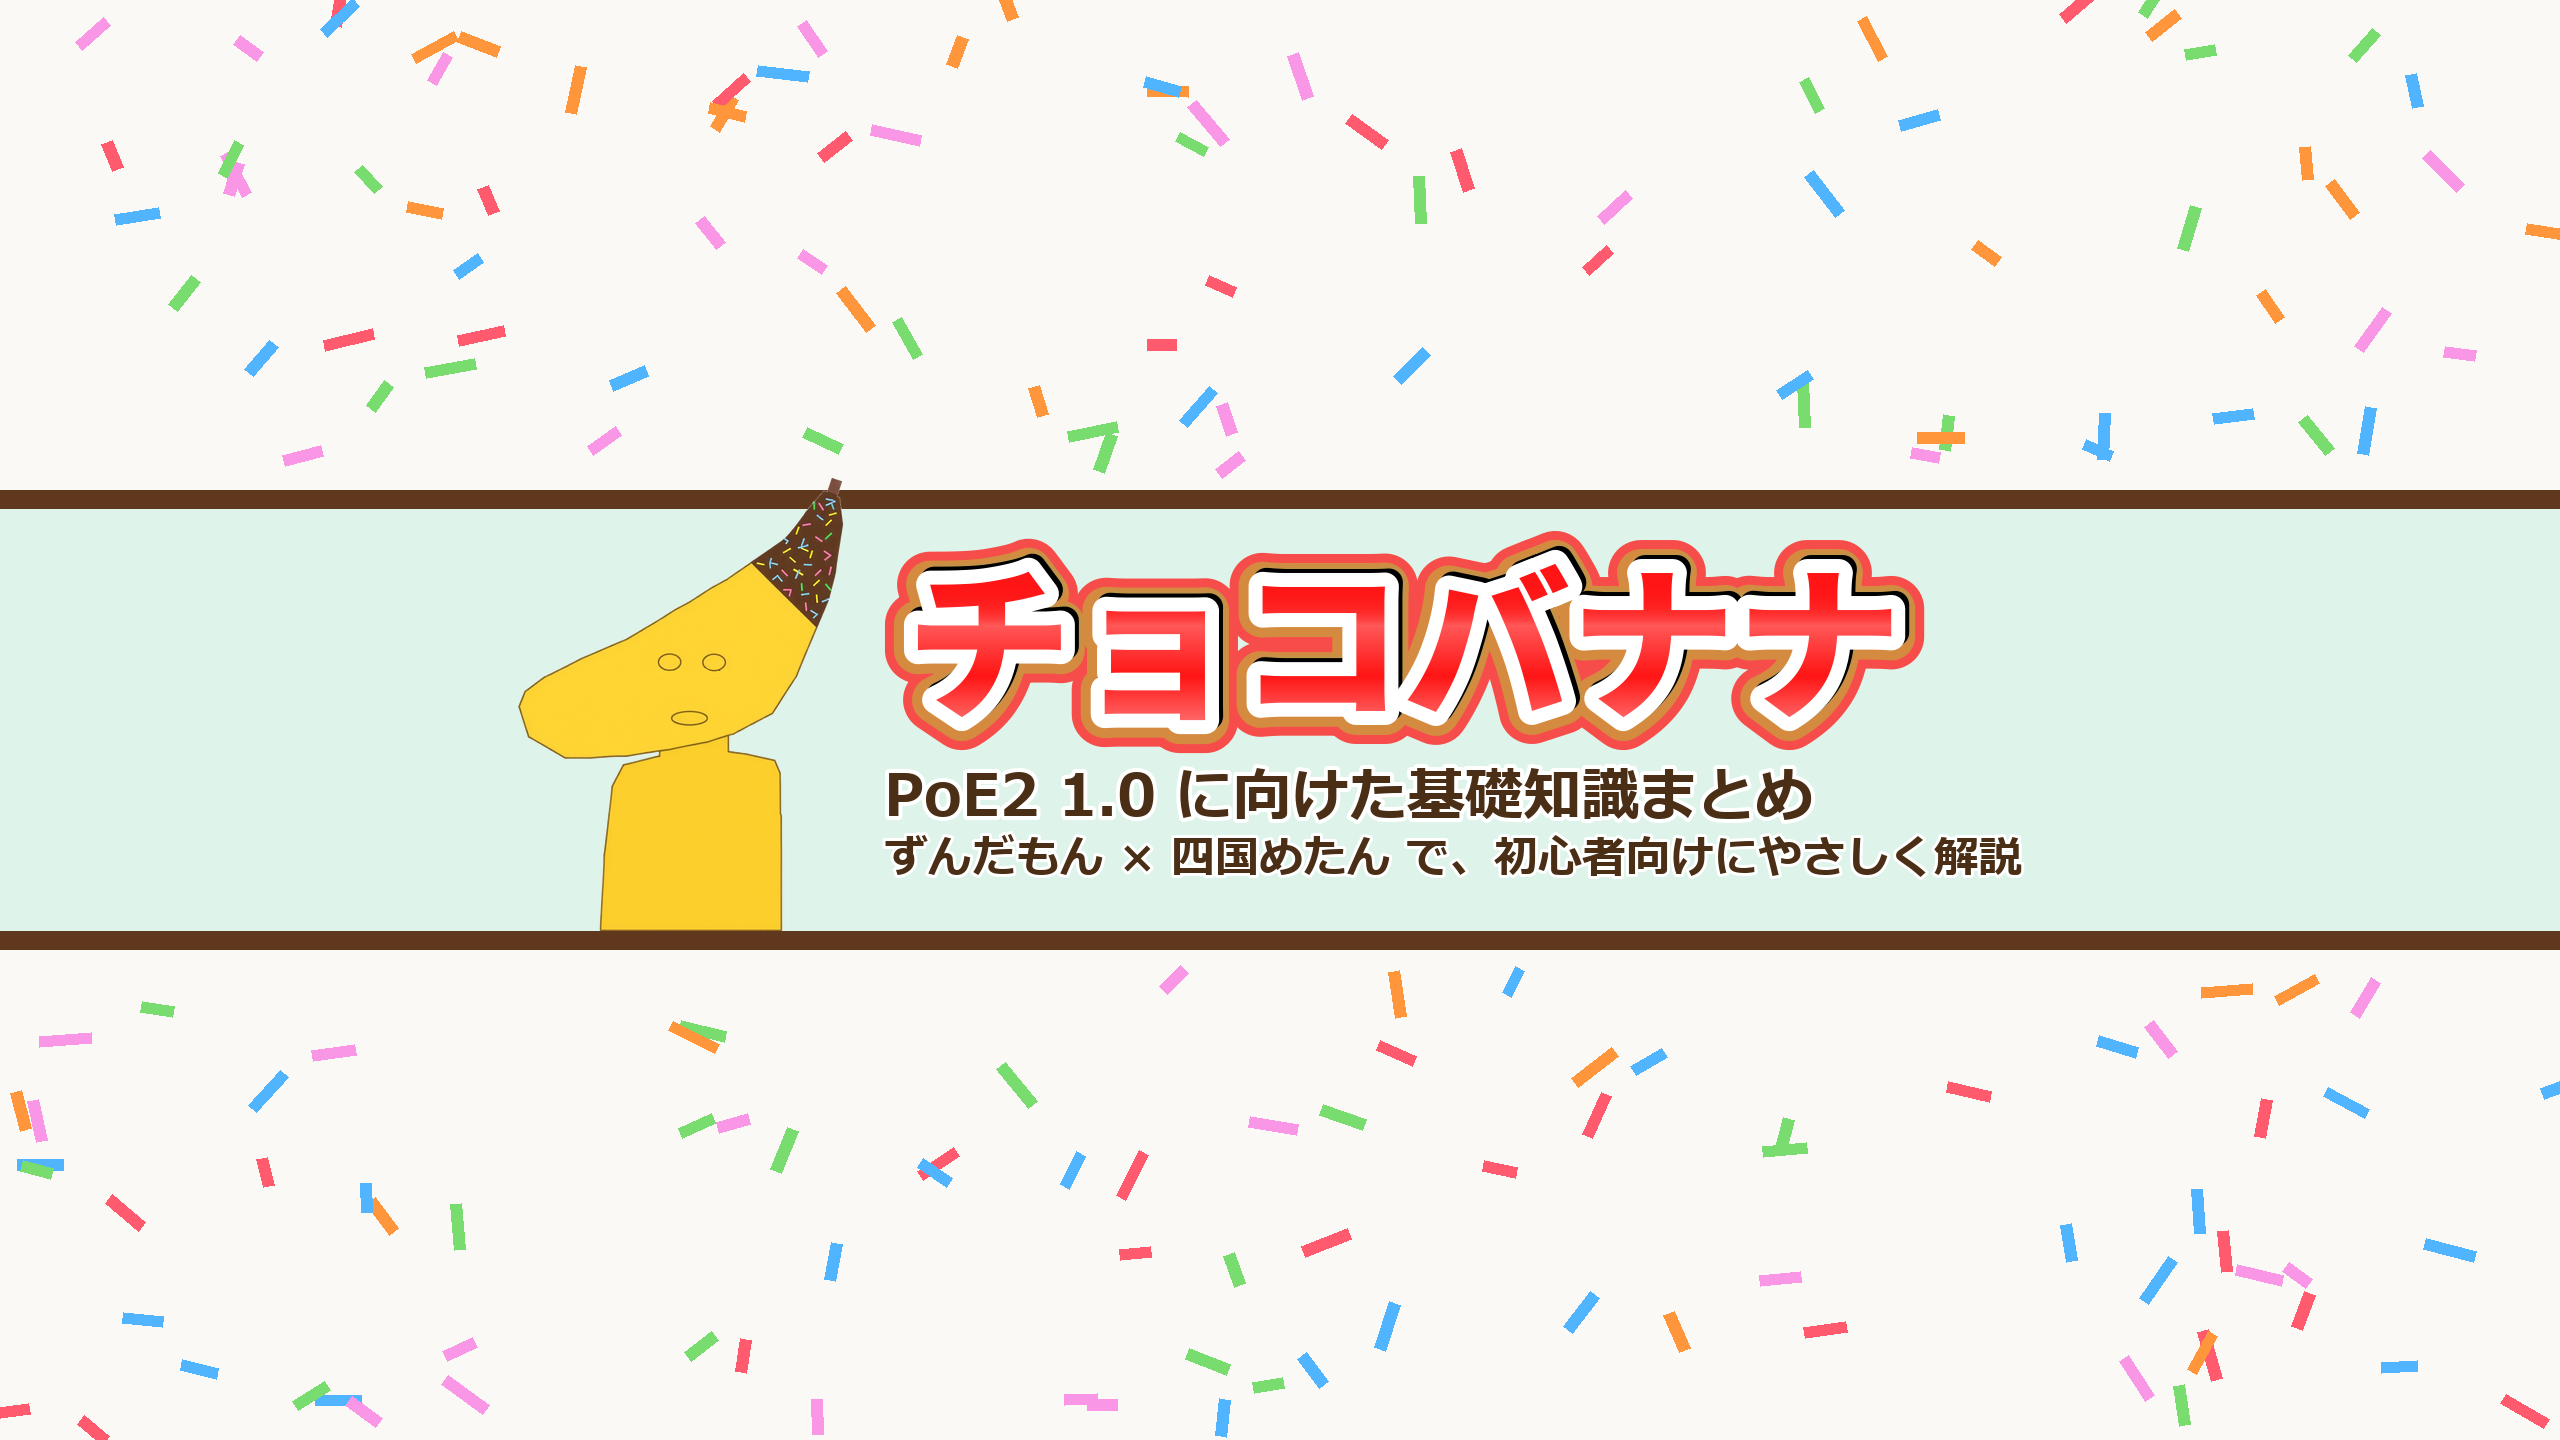
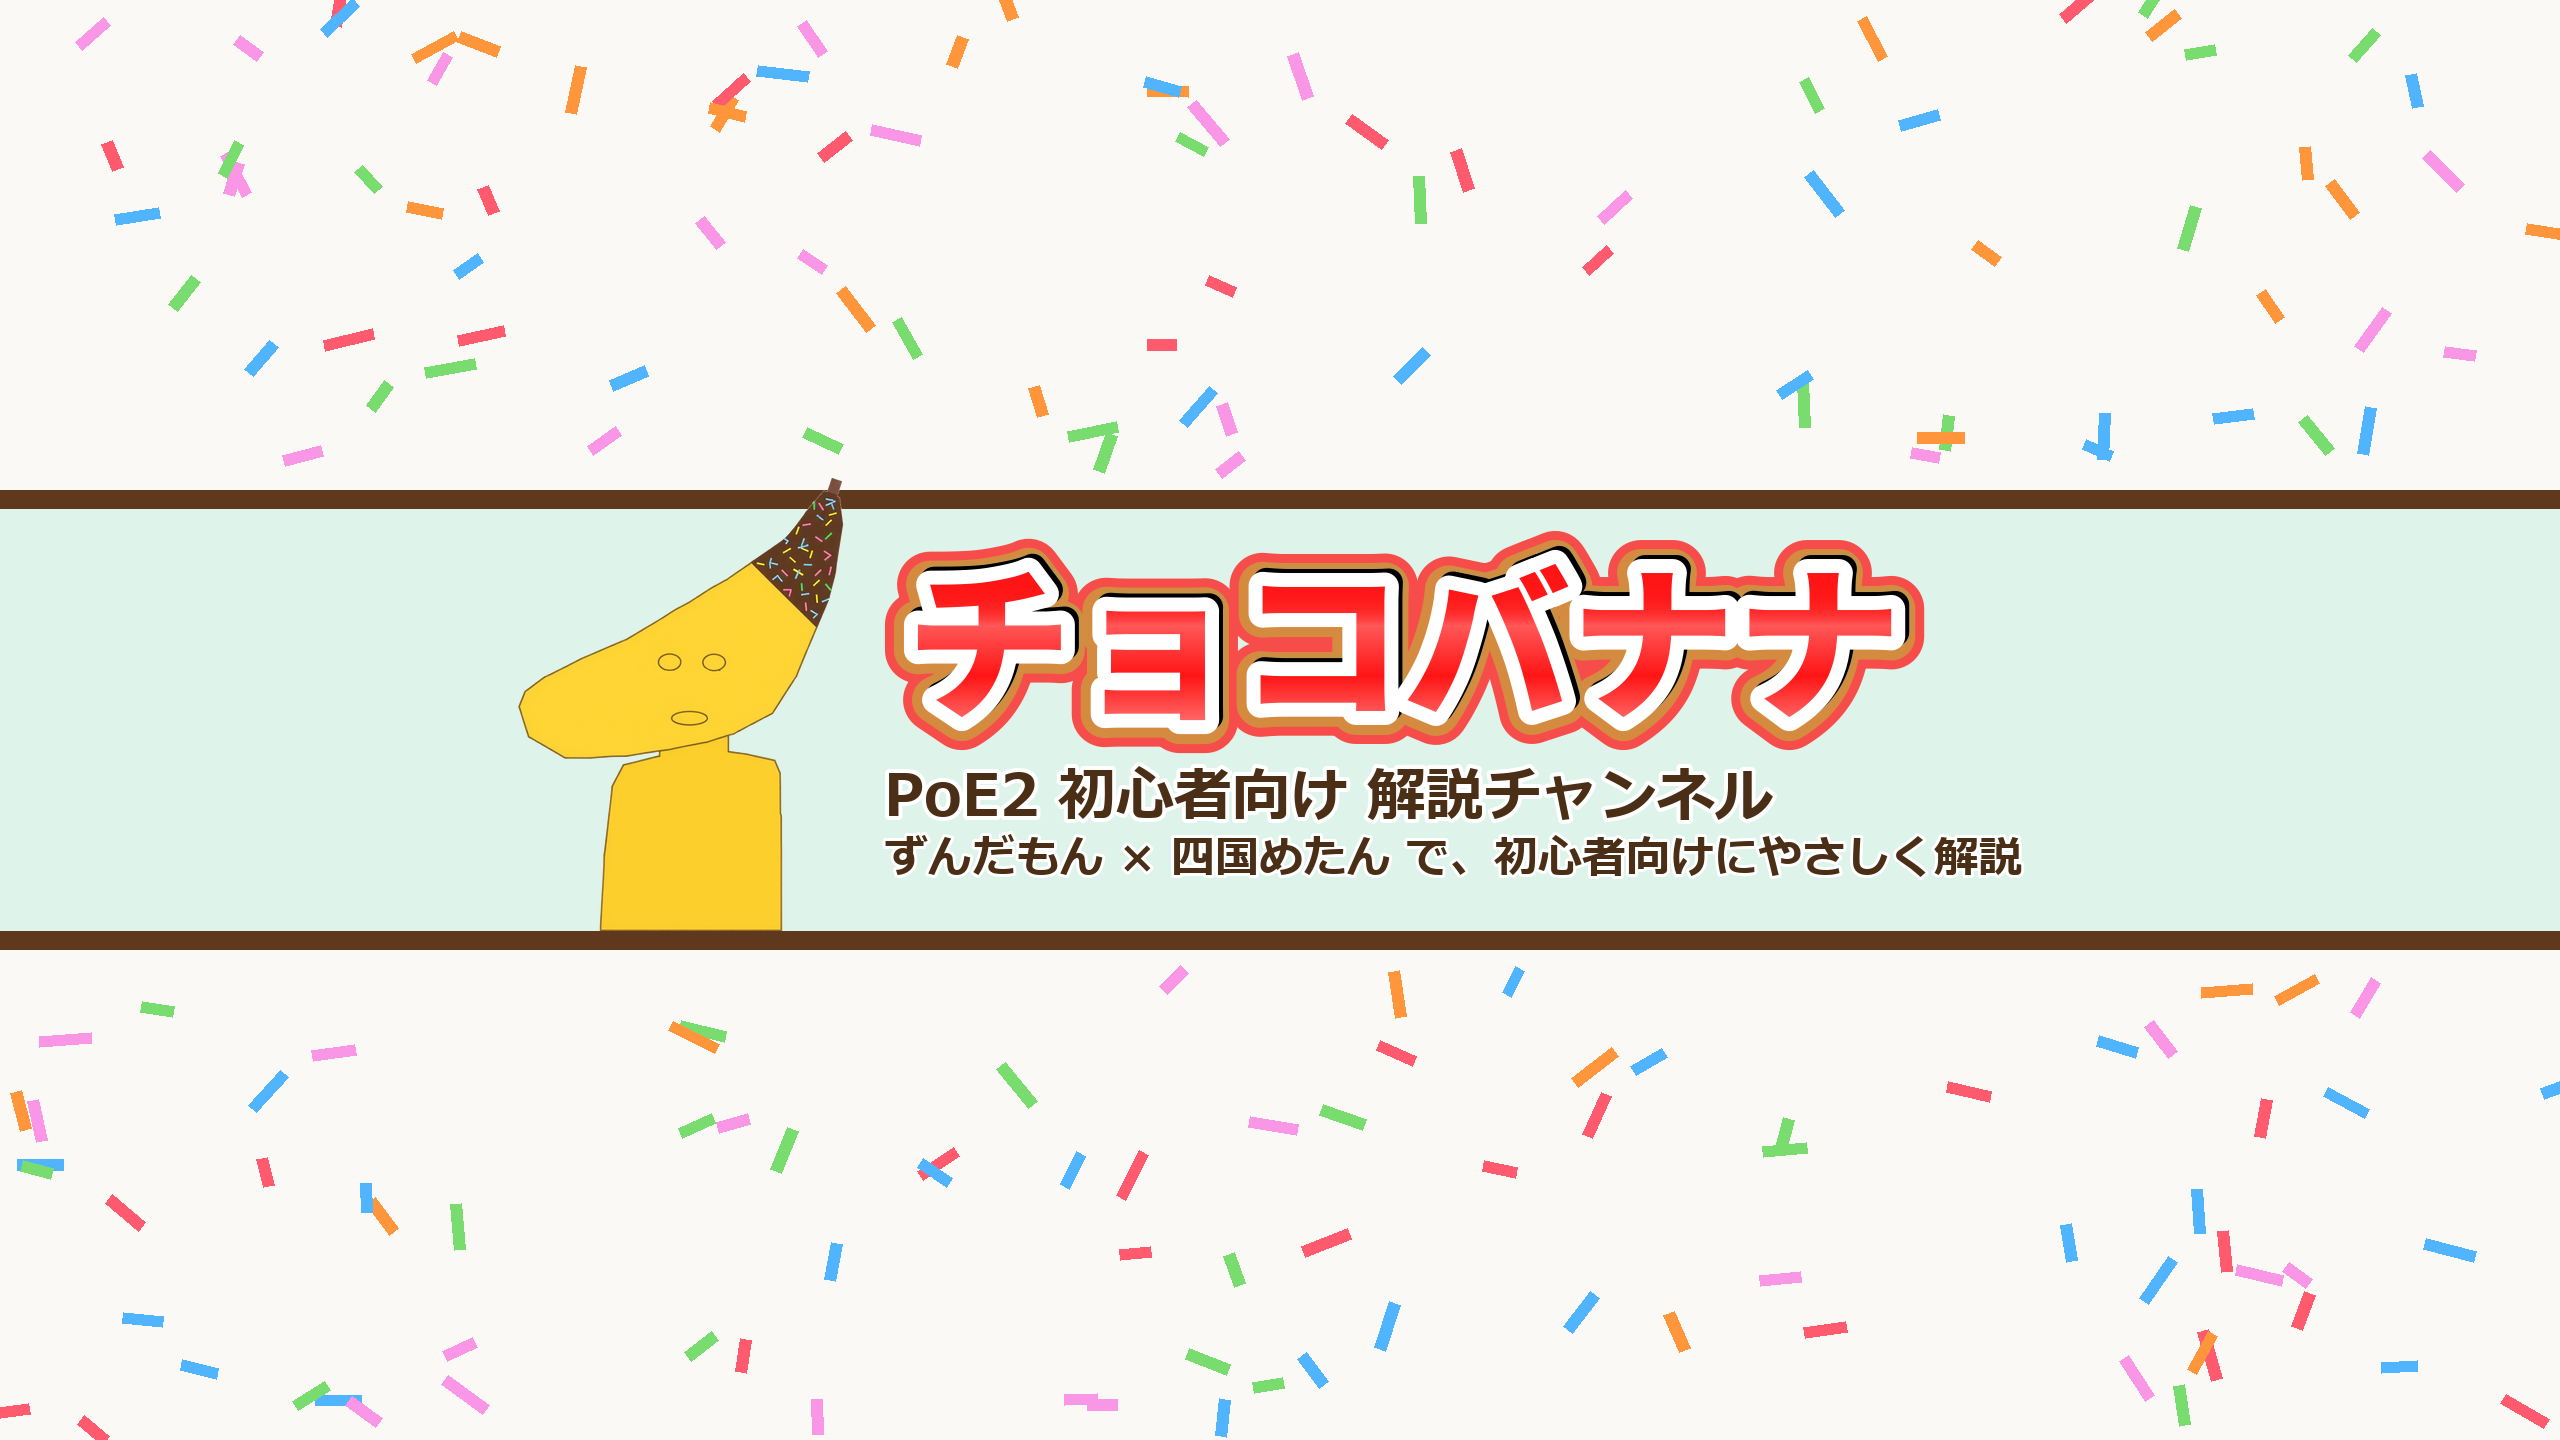
fix(publish): サムネ 403 で止めずに再生リストまで進める・--video-id で続きから・チャンネルから 1.0 の表記を外す

Changed region(s): [[0.4062, 0.5312, 0.7188, 0.5938]]

diff --git a/src/poe2tube/publish/youtube.py b/src/poe2tube/publish/youtube.py
@@ -123,8 +123,12 @@ def upload_video(
     playlist_id: str | None = None,
     execute: bool = False,
     root: Path = REPO_ROOT,
+    video_id: str | None = None,
 ) -> tuple[list[Action], str | None]:
-    """動画 → サムネ → 再生リストの順に上げる。戻り値は (やった/やる事, video_id)."""
+    """動画 → サムネ → 再生リストの順に上げる。戻り値は (やった/やる事, video_id).
+
+    ``video_id`` を渡すと動画は上げ直さず、サムネと再生リストだけ付ける (途中で止まった時の続き)。
+    """
     video = root / meta.video
     if not video.exists():
         raise FileNotFoundError(f"動画が無い: {video}")
@@ -132,7 +136,11 @@ def upload_video(
     if thumb is not None and not thumb.exists():
         raise FileNotFoundError(f"サムネが無い: {thumb}")
     when = f"予約 {meta.publish_at}" if meta.publish_at else meta.privacy
-    actions = [Action("動画を上げる", f"{meta.title} ({video.name}, {when})")]
+    actions = (
+        [Action("動画は上げ済み", video_id)]
+        if video_id
+        else [Action("動画を上げる", f"{meta.title} ({video.name}, {when})")]
+    )
     if thumb is not None:
         actions.append(Action("サムネを付ける", thumb.name))
     if playlist_id:
@@ -142,18 +150,25 @@ def upload_video(
 
     from googleapiclient.http import MediaFileUpload  # type: ignore[import-untyped]
 
-    media = MediaFileUpload(str(video), chunksize=8 * 1024 * 1024, resumable=True)
-    req = service.videos().insert(part="snippet,status", body=video_body(meta), media_body=media)
-    res = None
-    while res is None:
-        status, res = req.next_chunk()
-        if status is not None:
-            log.info("uploading", progress=round(status.progress() * 100))
-    video_id = str(res["id"])
-    log.info("video uploaded", video_id=video_id)
+    if video_id is None:
+        media = MediaFileUpload(str(video), chunksize=8 * 1024 * 1024, resumable=True)
+        req = service.videos().insert(
+            part="snippet,status", body=video_body(meta), media_body=media
+        )
+        res = None
+        while res is None:
+            status, res = req.next_chunk()
+            if status is not None:
+                log.info("uploading", progress=round(status.progress() * 100))
+        video_id = str(res["id"])
+        log.info("video uploaded", video_id=video_id)
     if thumb is not None:
-        service.thumbnails().set(videoId=video_id, media_body=MediaFileUpload(str(thumb))).execute()
-    if playlist_id:
+        failed = set_thumbnail(service, video_id, thumb)
+        if failed:
+            actions = [a for a in actions if a.what != "サムネを付ける"] + failed
+    if playlist_id and in_playlist(service, playlist_id, video_id):
+        actions = [a for a in actions if a.what != "再生リストに入れる"]
+    elif playlist_id:
         service.playlistItems().insert(
             part="snippet",
             body={
@@ -164,3 +179,39 @@ def upload_video(
             },
         ).execute()
     return actions, video_id
+
+
+def set_thumbnail(service: Any, video_id: str, thumb: Path) -> list[Action]:
+    """サムネを付ける。電話番号未確認のチャンネルは 403 → 止めずに「未設定」を返す.
+
+    動画は上がっているので、ここで落とすと再生リストへの追加まで止まる (2026-09-28 実際に起きた)。
+    """
+    from googleapiclient.errors import HttpError  # type: ignore[import-untyped]
+    from googleapiclient.http import MediaFileUpload
+
+    try:
+        service.thumbnails().set(videoId=video_id, media_body=MediaFileUpload(str(thumb))).execute()
+    except HttpError as e:
+        if getattr(e, "status_code", None) != 403 and "403" not in str(e)[:40]:
+            raise
+        log.warning(
+            "thumbnail not set (channel not verified?)", video_id=video_id, error=str(e)[:200]
+        )
+        return [
+            Action(
+                "【要対応】サムネ未設定",
+                "youtube.com/verify で電話番号確認 → publish_video.py <name> --video-id "
+                f"{video_id} --execute",
+            )
+        ]
+    return []
+
+
+def in_playlist(service: Any, playlist_id: str, video_id: str) -> bool:
+    """もう入っていれば二重に入れない (--video-id で続きをやり直した時)."""
+    res = (
+        service.playlistItems()
+        .list(part="id", playlistId=playlist_id, videoId=video_id, maxResults=1)
+        .execute()
+    )
+    return bool(res.get("items"))

diff --git a/tests/test_publish.py b/tests/test_publish.py
@@ -221,3 +221,27 @@ def test_envfile_roundtrip(tmp_path: Path) -> None:
     set_env(env, "B", "x=y")
     assert read_env(env) == {"A": "2", "B": "x=y"}
     assert env.read_text(encoding="utf-8").startswith("# c\n")
+
+
+def test_thumbnail_403_does_not_stop_playlist(tmp_path: Path) -> None:
+    import httplib2  # type: ignore[import-untyped]
+    from googleapiclient.errors import HttpError  # type: ignore[import-untyped]
+
+    (tmp_path / "v.mp4").write_bytes(b"x")
+    (tmp_path / "t.jpg").write_bytes(b"x")
+    fake = FakeYouTube()
+
+    class _Thumb:
+        def set(self, **kw: Any) -> Any:
+            class _R:
+                def execute(self) -> None:
+                    raise HttpError(httplib2.Response({"status": 403}), b"forbidden")
+
+            return _R()
+
+    fake.thumbnails = lambda: _Thumb()  # type: ignore[method-assign]
+    m = VideoMeta(video="v.mp4", thumbnail="t.jpg", title="t", description="d")
+    actions, vid = upload_video(fake, m, "PL", execute=True, root=tmp_path, video_id="VID")
+    assert vid == "VID" and "videos.insert" not in fake.names()
+    assert "playlistItems.insert" in fake.names()
+    assert any("サムネ未設定" in str(a) for a in actions)

diff --git a/scripts/publish_video.py b/scripts/publish_video.py
@@ -54,6 +54,7 @@ def main() -> None:
     ap.add_argument("--summary", default=None, help="説明文の 1 段落目 (初回作成時)")
     ap.add_argument("--rebuild", action="store_true", help="data/publish/<name>.json を作り直す")
     ap.add_argument("--publish-at", default=None, help="予約公開 ISO 8601 (+09:00)")
+    ap.add_argument("--video-id", default=None, help="上げ済みの動画にサムネと再生リストだけ付ける")
     ap.add_argument("--execute", action="store_true", help="付けた時だけ YouTube に上げる")
     a = ap.parse_args()
 
@@ -69,7 +70,9 @@ def main() -> None:
         verify_channel(service, profile.expected_title)
         pl_actions, ids = ensure_playlists(service, profile, a.execute)
         playlist_id = ids.get(meta.playlist_key or "")
-        actions, video_id = upload_video(service, meta, playlist_id, execute=a.execute, root=ROOT)
+        actions, video_id = upload_video(
+            service, meta, playlist_id, execute=a.execute, root=ROOT, video_id=a.video_id
+        )
     for act in pl_actions + actions:
         log.info("done" if a.execute else "plan", action=str(act))
     if video_id:

diff --git a/scripts/make_banner.py b/scripts/make_banner.py
@@ -23,7 +23,7 @@ def main() -> None:
     img = render_banner(
         BRAND / "chocobanana_icon_flat_bg.png",
         title="チョコバナナ",
-        subtitle="PoE2 1.0 に向けた基礎知識まとめ",
+        subtitle="PoE2 初心者向け 解説チャンネル",
         tagline="ずんだもん × 四国めたん で、初心者向けにやさしく解説",
     )
     out = BRAND / "chocobanana_banner_2560x1440.png"
